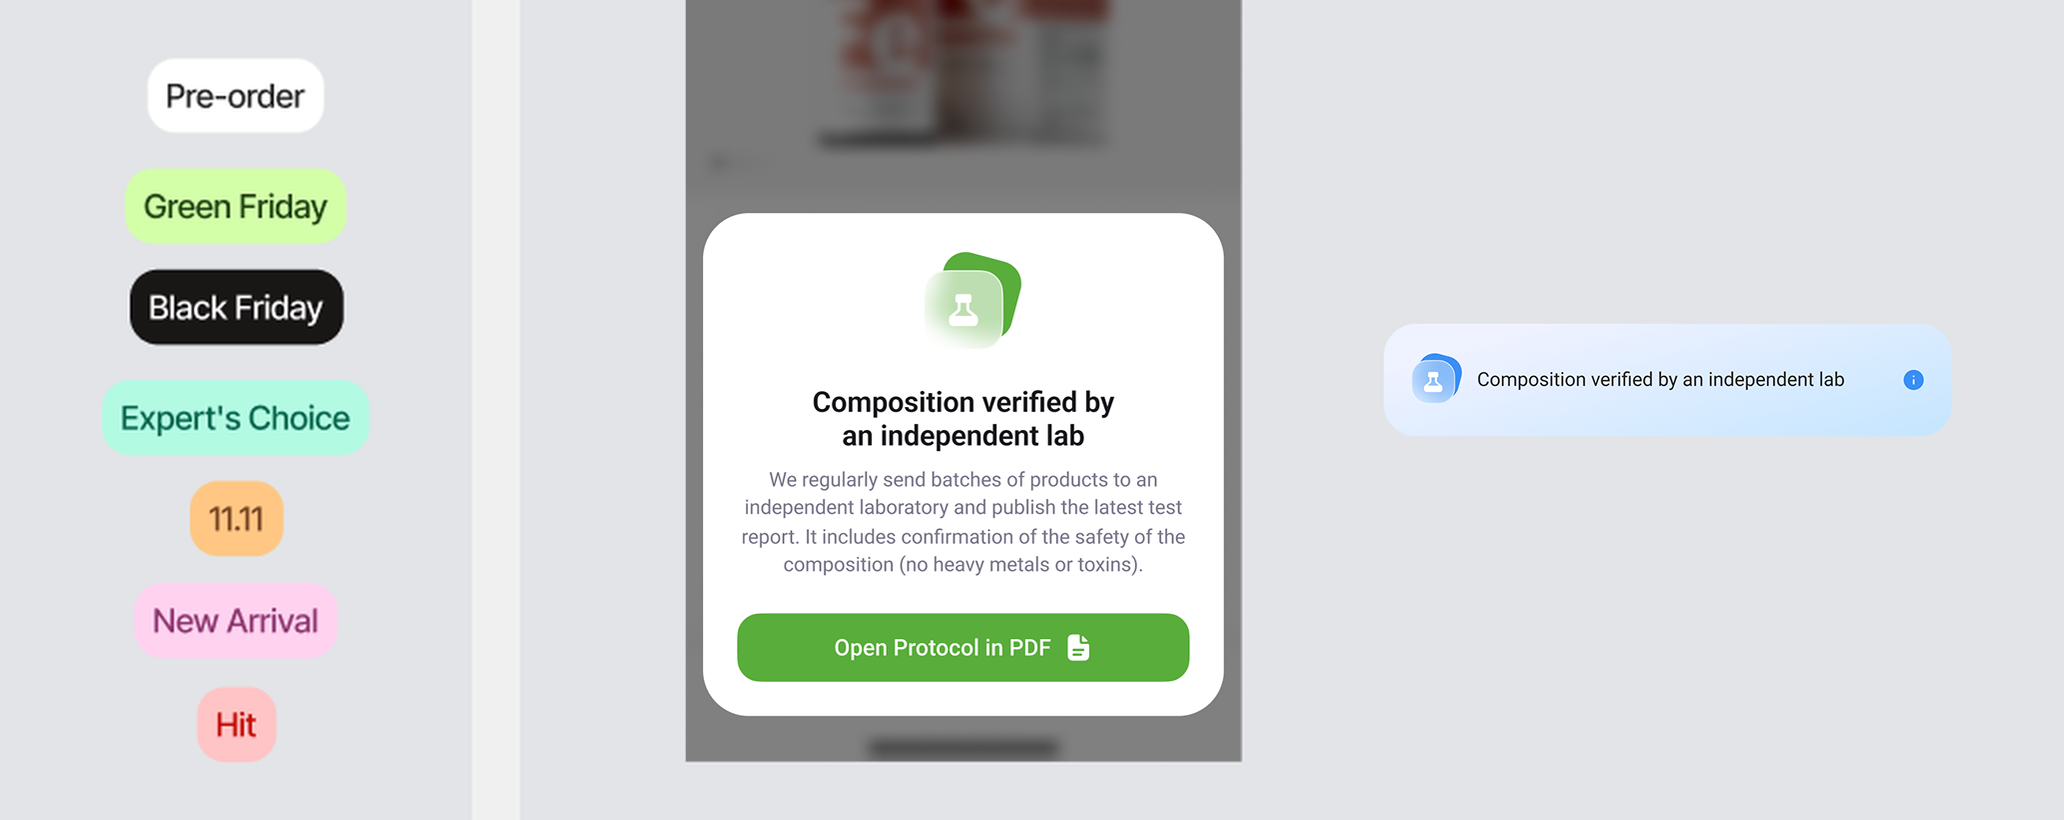
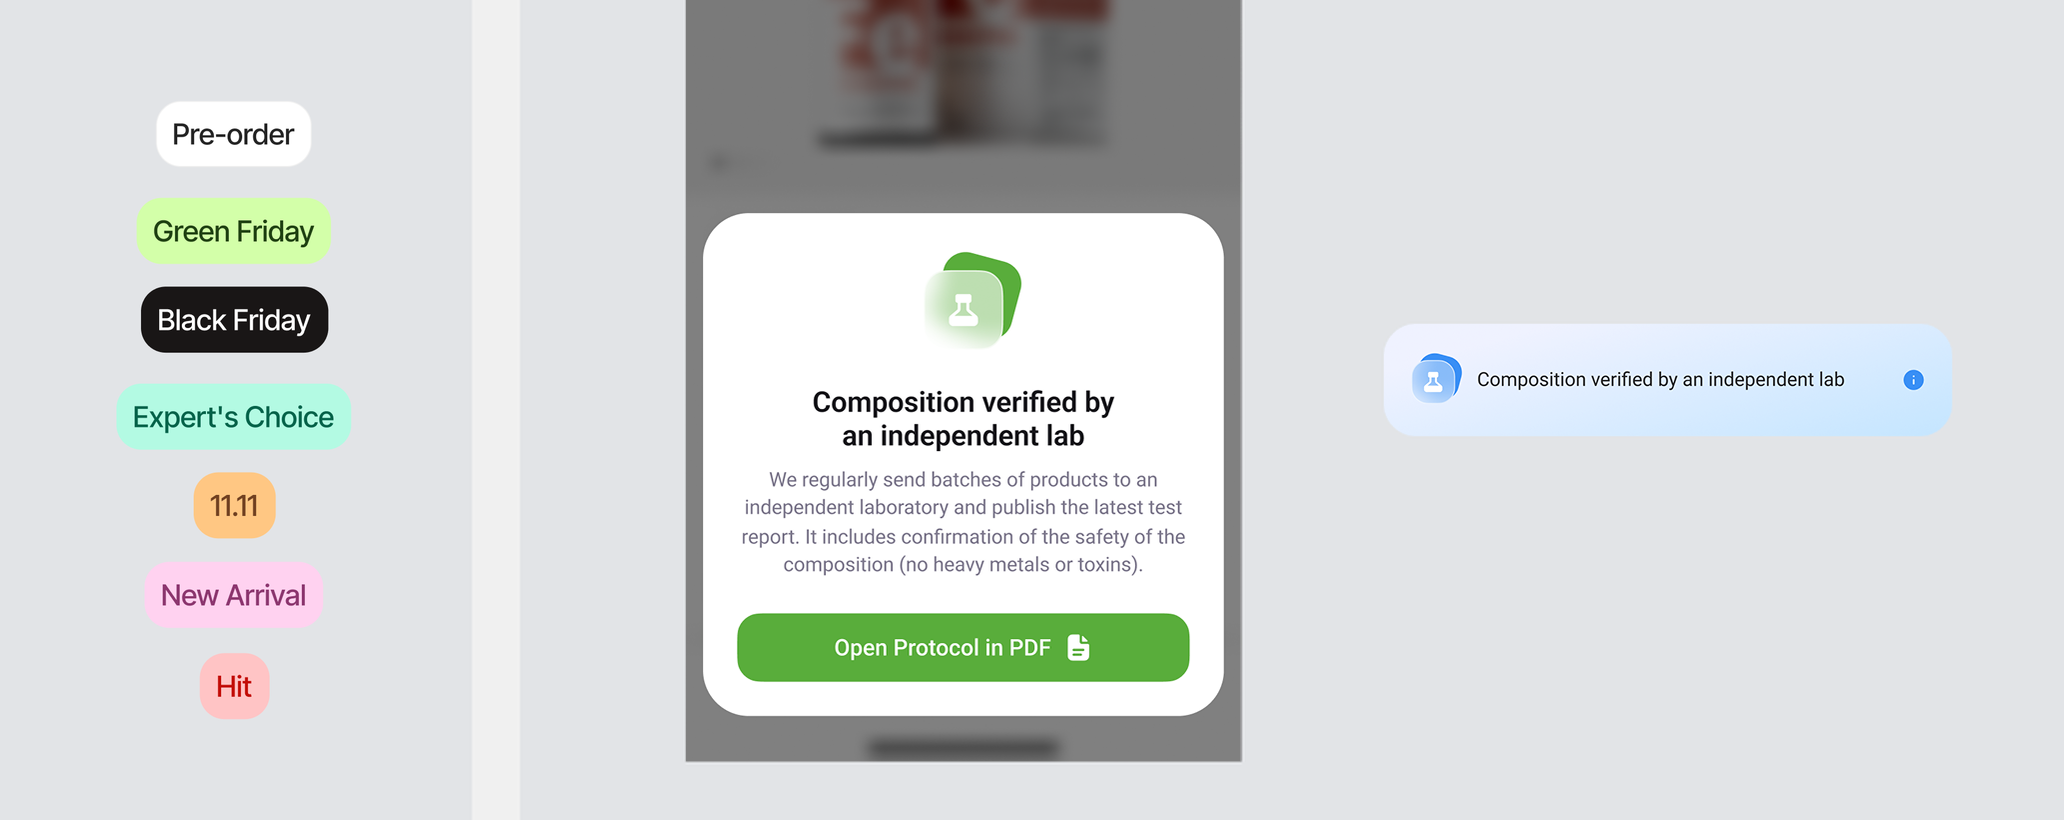
Add Hooh Smart Fill & Sign case assets; sharpen iTAB uxC labels
- Real translated iOS screens for the Hooh Smart Fill & Sign case
  (hero, uxA, uxA-zoom, uxB, uxC, uxD) composed on the case background
- Homepage project-card phone thumbnails for the new case
- Replace iTAB uxC promo-labels column with a higher-quality export

Changed region(s): [[0.031, 0.061, 0.186, 0.9451]]

diff --git a/index.html b/index.html
@@ -95,6 +95,33 @@
         </div>
       </article>
 
+      <article class="project-card project-card--fill">
+        <a class="project-card__link" href="hooh-fill.html" aria-label="Read the Hooh Smart Fill &amp; Sign case study"></a>
+        <div class="project-card__inner">
+          <header class="project-card__header">
+            <h3 class="project-card__title">Hooh Smart Fill &amp; Sign</h3>
+            <p class="project-card__subtitle">Filling and signing forms with data the app already knows</p>
+            <a class="arrow-btn" href="hooh-fill.html" aria-label="Open Hooh Smart Fill &amp; Sign case">
+              <img src="assets/arrow.svg" alt="">
+            </a>
+          </header>
+          <div class="project-card__phones">
+            <picture>
+              <source srcset="assets/hooh-fill-1.webp" type="image/webp">
+              <img class="project-card__phone" src="assets/hooh-fill-1.png" alt="Hooh Smart Fill — form auto-populated from previous documents" loading="lazy">
+            </picture>
+            <picture>
+              <source srcset="assets/hooh-fill-2.webp" type="image/webp">
+              <img class="project-card__phone" src="assets/hooh-fill-2.png" alt="Hooh Smart Fill — field source view" loading="lazy">
+            </picture>
+            <picture>
+              <source srcset="assets/hooh-fill-3.webp" type="image/webp">
+              <img class="project-card__phone" src="assets/hooh-fill-3.png" alt="Hooh Smart Fill — signature placed on document" loading="lazy">
+            </picture>
+          </div>
+        </div>
+      </article>
+
       <article class="project-card project-card--itab">
         <a class="project-card__link" href="itab.html" aria-label="Read the iTAB case study"></a>
         <div class="project-card__inner project-card__inner--itab">

diff --git a/hooh.html b/hooh.html
@@ -23,7 +23,7 @@
 
   <link rel="icon" type="image/svg+xml" href="assets/favicon.svg?v=2">
   <link rel="apple-touch-icon" href="assets/profile.jpg">
-  <link rel="stylesheet" href="styles.css?v=83">
+  <link rel="stylesheet" href="styles.css?v=84">
 </head>
 <body>
   <aside class="sidebar sidebar--case">
@@ -136,7 +136,7 @@
         <figure class="case__figure">
           <picture class="case__figure-desktop"><img src="assets/case-uxB.webp?v=7" alt="iOS document summary cards highlighting one that requires attention, next to a web documents folder view with categorized document cards" loading="lazy"></picture>
           <div class="case__slider" role="group" aria-label="Swipe through the summary cards and documents dashboard">
-            <div class="case__slide"><img class="case__shot case__shot--fill" src="assets/case-uxB-s1.webp?v=8" alt="iOS document summary cards highlighting one that requires attention" loading="lazy"></div>
+            <div class="case__slide"><img class="case__shot case__shot--phone" src="assets/case-uxB-s1.webp?v=9" alt="iOS document summary cards highlighting one that requires attention" loading="lazy"></div>
             <div class="case__slide"><img class="case__shot case__shot--desktop" src="assets/case-uxB-s2.webp?v=7" alt="Web documents folder view with categorized document cards" loading="lazy"></div>
           </div>
           <figcaption>Color cues pinned to risk only, not document type. Users don't need to map "yellow = medical, red = legal" — they need "yellow = needs your attention". Type info lives in the card title, not the cue.</figcaption>
